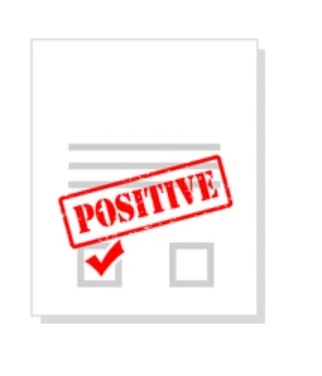
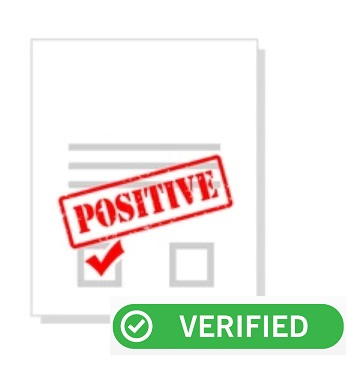
Add files via upload

diff --git a/app.py b/app.py
@@ -17,7 +17,7 @@ st.set_page_config(page_title="Portal Berita", layout="wide")
 # Setelah login
 # -------------------------------
 st.sidebar.title("📚 Menu")
-menu = st.sidebar.radio("Pilih", ["Crawling", "Sentiment", "Dashboard", "Logout", ])
+menu = st.sidebar.radio("Pilih", ["Crawling", "Analysis Berita", "Dashboard", "Logout", ])
 
 if menu == "Logout":
     st.session_state.token = None
@@ -28,7 +28,7 @@ if menu == "Logout":
 # Daftar berita dengan filter & pagination
 # -------------------------------
 
-elif menu == "Sentiment":
+elif menu == "Analysis Berita":
     title_filter = st.text_input("🔍 Filter judul berita")
     skip = st.sidebar.number_input("⏭ Skip", min_value=0, step=1)
     limit = st.sidebar.slider("🧮 Limit", 1, 20, 6)
@@ -300,6 +300,18 @@ elif menu == "Sentiment":
         st.warning("No news found with the selected filters. Please adjust your date range or source selection.")
 
 
+    # Store the initial value of widgets in session state
+    if "visibility" not in st.session_state:
+        st.session_state.visibility = "visible"
+        st.session_state.disabled = False
+
+    option = st.sidebar.selectbox(
+        "Source Berita :",
+        ("Verified", "Unverified"),
+        label_visibility=st.session_state.visibility,
+        disabled=st.session_state.disabled,
+    )
+
 # -------------------------------
 # Crawling
 # -------------------------------
@@ -497,6 +509,19 @@ elif menu == "Crawling":
                 st.rerun()
             else:
                 break
+
+    
+    # Store the initial value of widgets in session state
+    if "visibility" not in st.session_state:
+        st.session_state.visibility = "visible"
+        st.session_state.disabled = False
+
+    option = st.sidebar.selectbox(
+        "Source Berita :",
+        ("Verified", "Unverified"),
+        label_visibility=st.session_state.visibility,
+        disabled=st.session_state.disabled,
+    )
 
 # -------------------------------
 # chart
